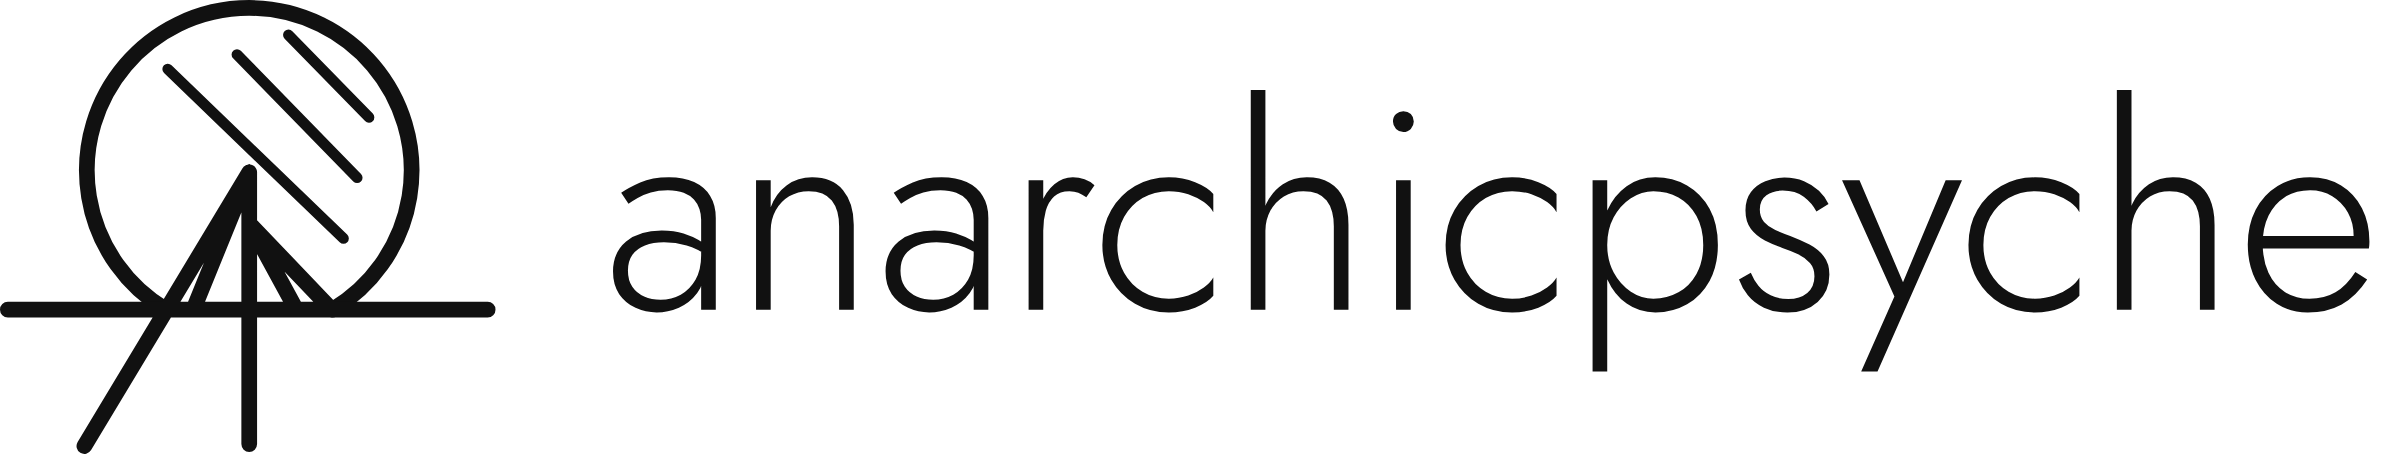
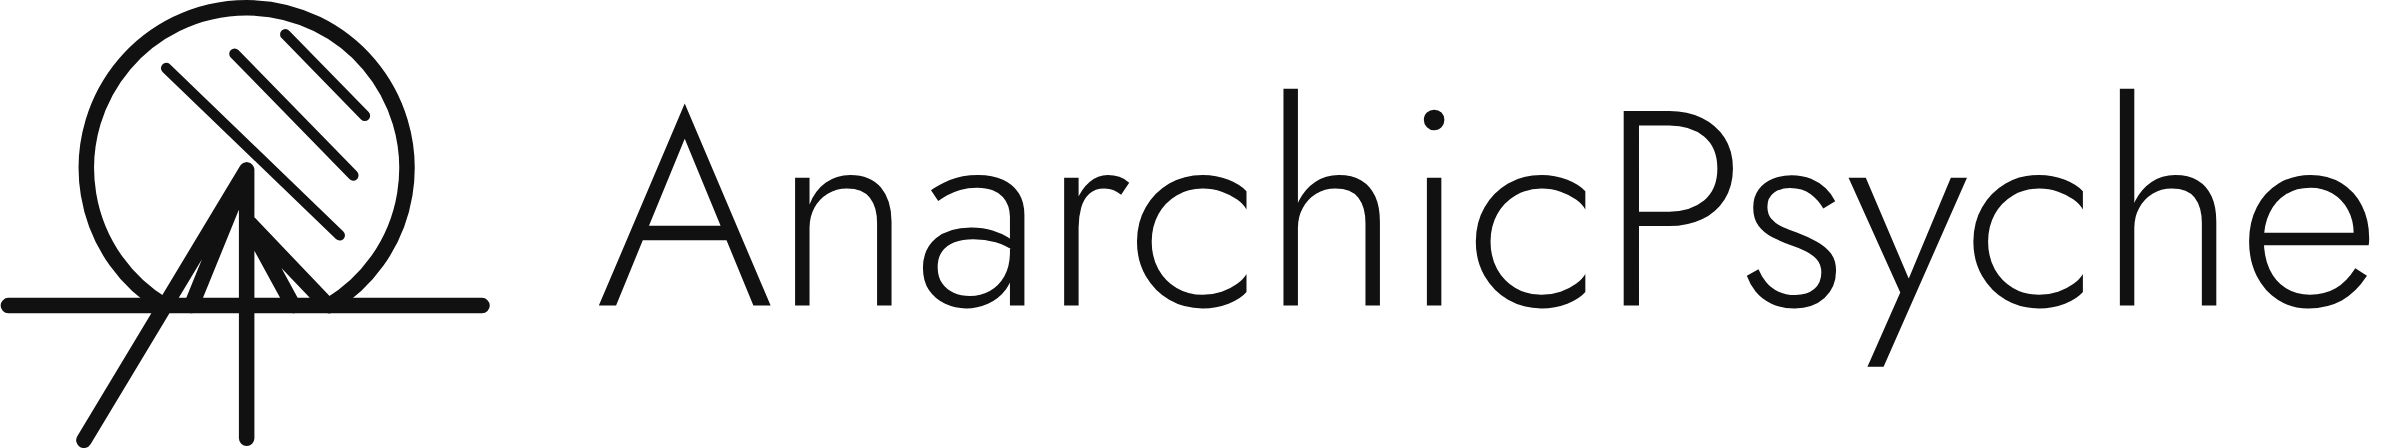
Spell the name AnarchicPsyche everywhere
Site title, wordmark (capital A and P echo the AP monogram), web manifest,
SVG titles and docs. Logo suite rebuilt with tools/brand/build.js.

Claude-Session: https://claude.ai/code/session_01G6PFTNZK36Z4t3HyGFi2d8

diff --git a/tools/brand/build.js b/tools/brand/build.js
@@ -1,4 +1,4 @@
-// Builds the Anarchicpsyche logo suite from the mark's geometry.
+// Builds the AnarchicPsyche logo suite from the mark's geometry.
 //
 //   node tools/brand/build.js
 //
@@ -102,7 +102,7 @@ function wordmark(weight, x, y, xh, fill) {
 }
 
 // decorative: for copies inlined next to the site name (hidden from screen readers).
-function svg(box, body, { size, title = "Anarchicpsyche", extra = "", decorative = false } = {}) {
+function svg(box, body, { size, title = "AnarchicPsyche", extra = "", decorative = false } = {}) {
   const wh = size ? ` width="${size[0]}" height="${size[1]}"` : "";
   const a11y = decorative ? ` aria-hidden="true" focusable="false">` : ` role="img" aria-label="${title}"><title>${title}</title>`;
   return `<svg xmlns="http://www.w3.org/2000/svg" viewBox="${box.join(" ")}"${wh}${a11y}${extra}${body}</svg>\n`;
@@ -242,8 +242,8 @@ async function main() {
   write("assets/img/logo-stacked.svg", stacked("regular", "currentColor", 300, { decorative: true }));
   write("static/favicon.svg", SVGS.favicon);
   write("static/site.webmanifest", JSON.stringify({
-    name: "Anarchicpsyche",
-    short_name: "Anarchicpsyche",
+    name: "AnarchicPsyche",
+    short_name: "AnarchicPsyche",
     icons: [
       { src: "/android-chrome-192x192.png", sizes: "192x192", type: "image/png", purpose: "any maskable" },
       { src: "/android-chrome-512x512.png", sizes: "512x512", type: "image/png", purpose: "any maskable" },

diff --git a/tools/brand/wordmark.py b/tools/brand/wordmark.py
@@ -1,6 +1,6 @@
-"""Turn the "anarchicpsyche" wordmark into SVG outlines, so no font is needed at runtime.
+"""Turn the "AnarchicPsyche" wordmark into SVG outlines, so no font is needed at runtime.
 
-One-time step; the output (wordmark.json) is committed and read by build.mjs.
+One-time step; the output (wordmark.json) is committed and read by build.js.
 Font: Jost (SIL OFL), from the @fontsource/jost npm package.
 
   npm pack @fontsource/jost@5.2.5 && tar xzf fontsource-jost-5.2.5.tgz
@@ -13,7 +13,7 @@ from fontTools.ttLib import TTFont
 from fontTools.pens.svgPathPen import SVGPathPen
 from fontTools.pens.transformPen import TransformPen
 
-TEXT = "anarchicpsyche"
+TEXT = "AnarchicPsyche"  # capital A and P echo the AP monogram in the mark
 WEIGHTS = (200, 300)
 
 

diff --git a/brand/README.md b/brand/README.md
@@ -1,4 +1,4 @@
-# Anarchicpsyche logo suite
+# AnarchicPsyche logo suite
 
 A vector redraw of the original blog logo (`original/ap_logo.png`, from the
 WordPress site, October 2020), plus everything derived from it. All files are
@@ -11,9 +11,11 @@ node tools/brand/build.js      # needs Playwright + Chromium
 
 ## The mark
 
-A sun (circle with three hatch strokes) setting behind the horizon, with a peak
-whose apex is the sun's centre. The redraw sits on the original 489 x 452 grid,
-with positions and stroke widths measured from the original image.
+An A and P monogram for AnarchicPsyche, drawn as a scene: a sun (circle with three
+hatch strokes) setting behind the horizon, with a peak whose apex is the sun's centre.
+The A is the long left leg and the vertical, with the horizon as its crossbar.
+The redraw sits on the original 489 x 452 grid, with positions and stroke widths
+measured from the original image.
 
 | Weight | Stroke | Use it for | Detail |
 |---|---|---|---|
@@ -47,7 +49,7 @@ need bitmaps.
 - `favicon.svg`: transparent, switches ink/paper with the browser theme
 - `social.svg`: 1200 x 630 share card
 
-Wordmark: "anarchicpsyche" in Jost (SIL Open Font License), converted to outlines
+Wordmark: "AnarchicPsyche" in Jost (SIL Open Font License), converted to outlines
 by `tools/brand/wordmark.py`, so no font needs to be installed.
 
 ## On the website

diff --git a/CLAUDE.md b/CLAUDE.md
@@ -1,4 +1,4 @@
-# Anarchicpsyche blog: project notes for Claude
+# AnarchicPsyche blog: project notes for Claude
 
 Personal blog (trek diaries + life stories), moved from anarchicpsyche.wordpress.com
 to Hugo + Blowfish on GitHub Pages.
@@ -71,7 +71,10 @@ to Hugo + Blowfish on GitHub Pages.
   (Playwright + Chromium). Don't hand-edit generated files.
 - Weights by size: fine (original strokes) >= 200 px, regular for header/hero, bold for app
   icons, tiny for 16-32 px favicons. Site SVGs use `currentColor` + `aria-hidden`.
-- Wordmark: lowercase "anarchicpsyche" in Jost (OFL), outlined by `tools/brand/wordmark.py`
+- Name is spelled **AnarchicPsyche** everywhere (site title, wordmark, manifest). The mark is
+  an A + P monogram (A = long left leg + vertical, horizon as crossbar). DP chose to keep the
+  original drawing over clearer-AP redraws.
+- Wordmark: "AnarchicPsyche" in Jost (OFL), outlined by `tools/brand/wordmark.py`
   into `wordmark.json`.
 
 ## Content

diff --git a/README.md b/README.md
@@ -1,4 +1,4 @@
-# Anarchicpsyche
+# AnarchicPsyche
 
 Hugo + [Blowfish](https://blowfish.page) blog, published to GitHub Pages on every push to `main`.
 
